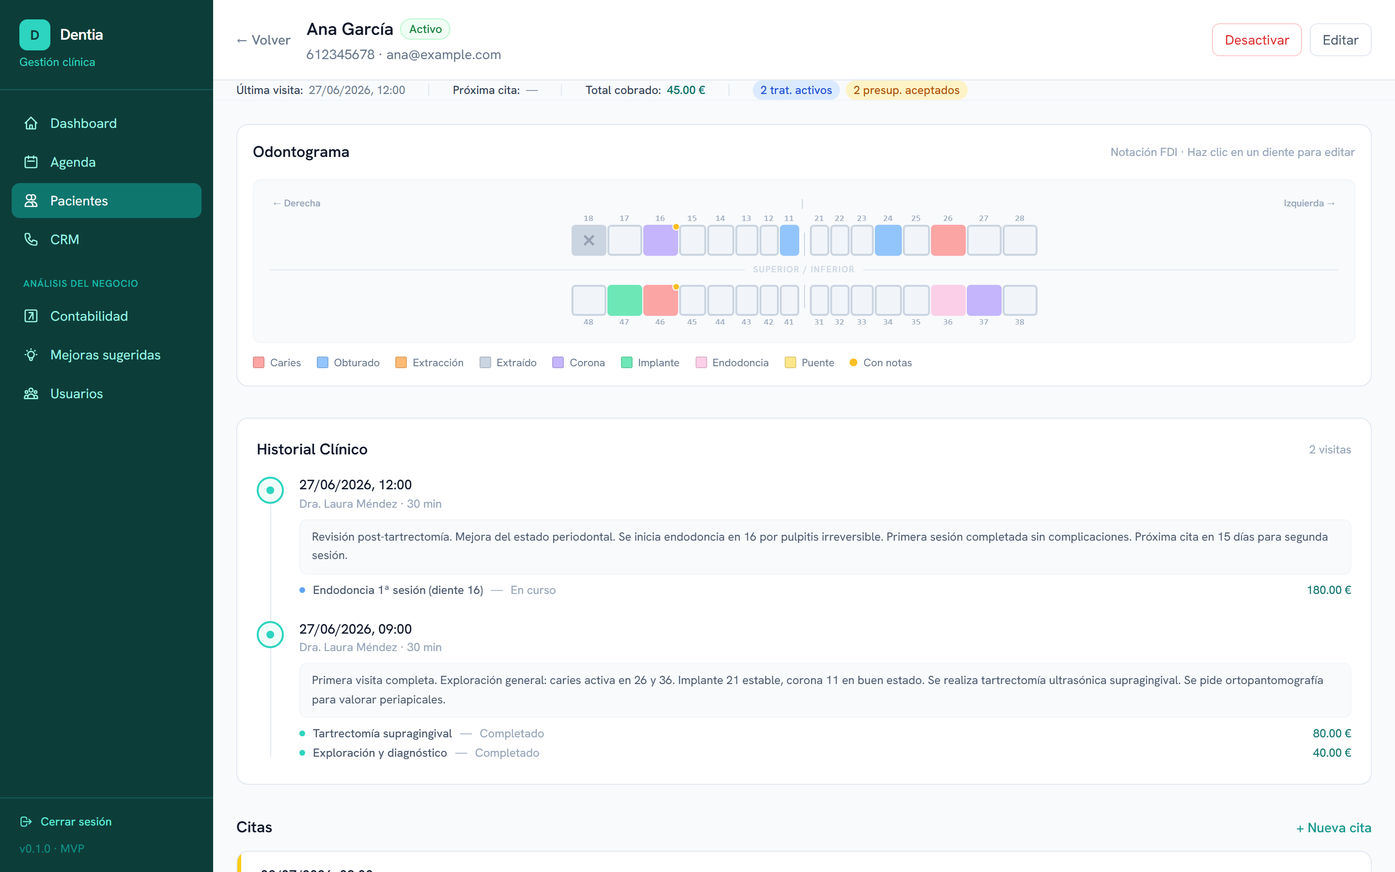
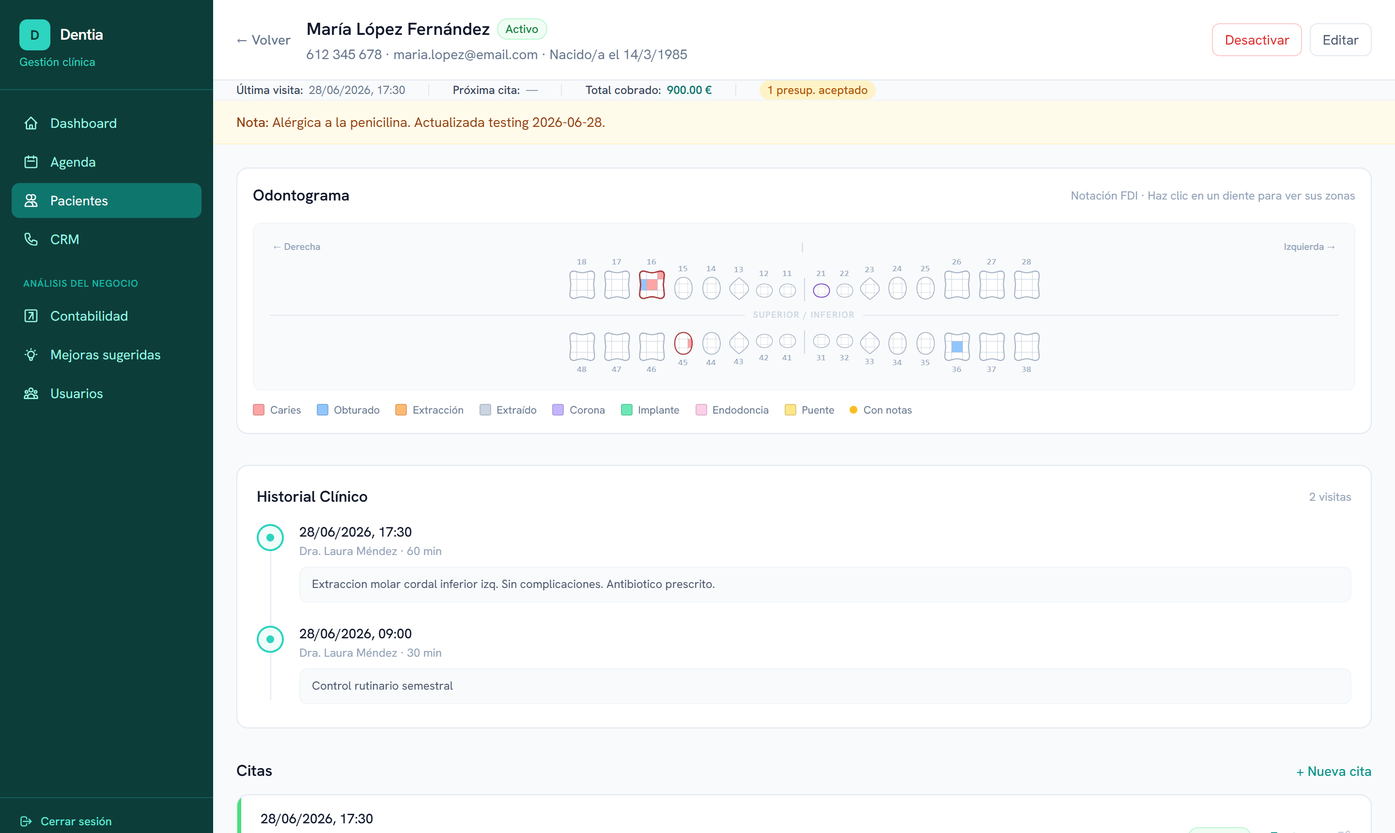
Dentia: precios reales sin promo, submenú de funciones y odontograma nuevo
- Fuera "sin cuota de alta" (hay puesta en marcha 249/299/399€) y fuera
  la promo de verano de 5 clínicas, en dentia.html y en la home. La
  garantía de devolución de 60 días se queda como bloque propio.
- Submenú sticky propio que recorre las 7 secciones del software
  (ficha, historial, reserva, asistente, CRM, tareas, negocio) con
  scrollspy y corrección de scroll con imágenes lazy.
- Reordenación: las secciones que enseñan el software van ahora
  seguidas, sin interrumpirlas; comparativa y convivencia pasan a
  después de funciones.
- Capturas nuevas del odontograma por zonas (arcada con dientes
  anatómicos + detalle de diente en 9 zonas) y copy actualizado.

diff --git a/dentia.html b/dentia.html
@@ -4,7 +4,7 @@
 <meta charset="UTF-8" />
 <meta name="viewport" content="width=device-width, initial-scale=1.0" />
 <title>Dentia — El software dental que además trabaja solo | Marirrodriga IA</title>
-<meta name="description" content="Software de gestión para clínicas dentales en la nube con un asistente de IA que atiende a tus pacientes por WhatsApp, cierra presupuestos y lleva la contabilidad sola. Desde 59€/mes, sin cuota de alta y sin permanencia." />
+<meta name="description" content="Software de gestión para clínicas dentales en la nube con un asistente de IA que atiende a tus pacientes por WhatsApp, cierra presupuestos y lleva la contabilidad sola. Desde 59€/mes, sin permanencia y con 60 días de garantía de devolución." />
 <meta property="og:title" content="Dentia — El software dental que además trabaja solo" />
 <meta property="og:description" content="Gestión clínica completa + un asistente de IA que atiende a tus pacientes. Desde 59€/mes, sin permanencia." />
 <meta property="og:type" content="website" />
@@ -160,6 +160,15 @@
   .final .btn{background:#fff;color:var(--teal)}
   .final .eyebrow{background:rgba(255,255,255,.16);color:#fff}
   footer{padding:40px 0;text-align:center;color:var(--ink-4);font-size:13.5px}footer a{color:var(--teal)}
+  /* Submenú de funciones (recorre las secciones del software) */
+  .fn-wrap{position:relative}
+  .fn-wrap section{scroll-margin-top:128px}
+  .subnav{position:sticky;top:62px;z-index:40;background:rgba(255,255,255,.92);backdrop-filter:blur(10px);border-bottom:1px solid var(--border)}
+  .subnav-in{display:flex;gap:8px;overflow-x:auto;scrollbar-width:none;padding:10px 24px;max-width:1080px;margin:0 auto}
+  .subnav-in::-webkit-scrollbar{display:none}
+  .subnav a{flex:0 0 auto;font-size:12.5px;font-weight:600;color:var(--ink-3);padding:6px 13px;border-radius:20px;border:1px solid var(--border-2);background:#fff;white-space:nowrap;transition:all .15s}
+  .subnav a:hover{color:var(--teal);border-color:var(--accent)}
+  .subnav a.active{background:var(--teal);border-color:var(--teal);color:#fff}
   @media(max-width:860px){
     .stats,.prob-grid,.grid2,.plans,.obj-grid{grid-template-columns:1fr}
     .final{padding:40px 24px}section{padding:52px 0}
@@ -190,11 +199,11 @@
     <a class="btn" href="https://wa.me/34675148566" target="_blank" rel="noopener">Quiero una demo gratis →</a>
     <a class="btn ghost" href="#precios">Ver precios</a>
   </div>
-  <div class="hero-trust"><span>✦ <b>Sin cuota de alta</b></span><span>✦ <b>Sin permanencia</b></span><span>✦ <b>Migración incluida</b></span><span>✦ <b>100% en la nube</b></span></div>
+  <div class="hero-trust"><span>✦ <b>Garantía de 60 días</b></span><span>✦ <b>Sin permanencia</b></span><span>✦ <b>Migración incluida</b></span><span>✦ <b>100% en la nube</b></span></div>
   <div class="stats">
     <div class="stat"><div class="n">24/7</div><div class="l">tus pacientes reservan y preguntan aunque la clínica esté cerrada</div></div>
     <div class="stat"><div class="n">0</div><div class="l">llamadas del mostrador para confirmar las citas de mañana: se confirman solas</div></div>
-    <div class="stat"><div class="n">0 €</div><div class="l">de instalación, sin ordenador dedicado y sin permanencia</div></div>
+    <div class="stat"><div class="n">60</div><div class="l">días de garantía: si no ves resultado, te devolvemos todo lo pagado</div></div>
     <div class="stat"><div class="n">1ª</div><div class="l">serás de las primeras clínicas de tu ciudad en atender con IA, sin hacer esperar a nadie</div></div>
   </div>
 </div></header>
@@ -259,72 +268,53 @@
   </div>
 </div></section>
 
-<section><div class="wrap">
-  <span class="eyebrow">Comparativa</span>
-  <h2>Todo lo de siempre, <em>más lo que otros no traen</em></h2>
-  <p class="lead">Dentia tiene todo lo que esperas de un software dental — y encima nuestros añadidos con IA.</p>
-  <div class="cmp"><table>
-    <thead><tr><th>Función</th><th class="us">Dentia</th><th>Software dental tradicional</th></tr></thead>
-    <tbody>
-      <tr><td>Agenda y gestión de citas</td><td class="us">Sí</td><td class="yes">Sí</td></tr>
-      <tr><td>Ficha e historia clínica</td><td class="us">Sí</td><td class="yes">Sí</td></tr>
-      <tr><td>Odontograma digital</td><td class="us">Sí</td><td class="yes">Sí</td></tr>
-      <tr><td>Presupuestos, pagos y facturación</td><td class="us">Sí</td><td class="yes">Sí</td></tr>
-      <tr><td>Radiografías, fotos clínicas y documentos del paciente</td><td class="us">Sí</td><td class="yes">Sí</td></tr>
-      <tr><td>Roles y permisos de equipo</td><td class="us">Sí</td><td class="yes">Sí</td></tr>
-      <tr><td>Firma digital de consentimientos</td><td class="us">Sí</td><td class="no">Solo algunos</td></tr>
-      <tr><td>100% en la nube, desde cualquier dispositivo</td><td class="us">Sí</td><td class="no">A menudo Windows</td></tr>
-      <tr><td>Reserva online sin huecos muertos</td><td class="us">Sí</td><td class="no">Franjas fijas de media hora</td></tr>
-      <tr><td>Asistente de IA por WhatsApp</td><td class="us">Sí</td><td class="no">No</td></tr>
-      <tr><td>Acompañamiento de presupuestos con IA</td><td class="us">Sí</td><td class="no">No</td></tr>
-      <tr><td>Seguimiento autónomo + aviso de intervención</td><td class="us">Sí</td><td class="no">No</td></tr>
-      <tr><td>CRM kanban de seguimiento de pacientes</td><td class="us">Sí</td><td class="no">No</td></tr>
-      <tr><td>Seguimiento de presupuestos con su valor en juego</td><td class="us">Sí</td><td class="no">Solo listados</td></tr>
-      <tr><td>Contabilidad autónoma analizada por IA</td><td class="us">Sí</td><td class="no">No</td></tr>
-      <tr><td>Análisis IA de conversaciones y mejoras sugeridas</td><td class="us">Sí</td><td class="no">No</td></tr>
-      <tr><td>Sin cuota de alta ni permanencia</td><td class="us">Sí</td><td class="no">Varía</td></tr>
-      <tr><td>Convive con tu sistema en la transición</td><td class="us">Sí</td><td class="no">Migración brusca</td></tr>
-    </tbody>
-  </table></div>
-</div></section>
-
-<section class="soft"><div class="wrap">
-  <span class="eyebrow">Convivencia y transición</span>
-  <h2>No hay que cambiarlo <em>todo de golpe</em></h2>
-  <p class="lead">Sabemos que cambiar de sistema da miedo — datos perdidos, equipo desorientado, días de caos. Dentia entra sin sobresaltos, conviviendo con lo que ya usas el tiempo que haga falta.</p>
-  <div class="grid2">
-    <div class="card"><h3>🗓 Con tu calendario actual</h3><p>Las citas pueden reflejarse en el calendario que usáis hoy durante la adaptación.</p></div>
-    <div class="card"><h3>🧾 Con tu facturación actual</h3><p>Sigues facturando como hasta ahora mientras adoptas Dentia a tu ritmo.</p></div>
-    <div class="card"><h3>✋ Lo manual y lo automático, juntos</h3><p>El equipo gestiona a mano lo que quiera; la IA trabaja en paralelo sobre los mismos datos.</p></div>
-    <div class="card"><h3>🚶 A tu ritmo</h3><p>Se empieza por lo que más alivia y se suman funciones según el equipo gana confianza.</p></div>
-  </div>
-</div></section>
-
 <!-- ═══════════ 2 · FUNCIONES ═══════════ -->
 <div class="sec-head" id="funciones"><div class="wrap">
   <div class="kicker">— funciones —</div>
   <h2>Todo lo que hace Dentia, <em>por dentro</em></h2>
 </div></div>
 
-<section><div class="wrap">
+<div class="fn-wrap">
+<nav class="subnav" aria-label="Secciones de Dentia"><div class="subnav-in">
+  <a href="#f-ficha">🦷 Ficha y odontograma</a>
+  <a href="#f-historial">📋 Historia clínica</a>
+  <a href="#f-reserva">📅 Reserva online</a>
+  <a href="#f-asistente">💬 Asistente IA</a>
+  <a href="#f-crm">🎯 Seguimiento y CRM</a>
+  <a href="#f-tareas">⚙ Tareas automáticas</a>
+  <a href="#f-negocio">📈 Números del negocio</a>
+</div></nav>
+
+<section id="f-ficha"><div class="wrap">
   <span class="eyebrow">El corazón del programa</span>
   <h2>La ficha del paciente: <em>todo en una pantalla</em></h2>
   <p class="lead">Odontograma, historia clínica, tratamientos, presupuestos, pagos y seguimientos, sin saltar entre ventanas.</p>
   <div class="fig"><img src="dentia-img/ficha-paciente.png" alt="Ficha del paciente con odontograma e historial" loading="lazy" /></div>
   <div class="grid2">
-    <div class="card"><h3>🦷 Odontograma visual</h3><p>Los 32 dientes con sus estados en color. Un clic para editar.</p></div>
+    <div class="card"><h3>🦷 Odontograma por zonas</h3><p>Cada diente se dibuja con su forma anatómica y se abre con un clic, dividido en 9 zonas —oclusal, mesial, distal, vestibular, lingual y sus ángulos— para registrar exactamente en qué parte del diente se interviene.</p></div>
     <div class="card"><h3>📋 Historia clínica automática</h3><p>Cada visita queda registrada con sus tratamientos. Se construye sola.</p></div>
+  </div>
+  <p class="lead" style="margin-top:26px">El odontograma no se queda en la vista general: cada diente se abre y se marca zona a zona, igual que trabaja el dentista.</p>
+  <div class="duo">
+    <div>
+      <p class="cap">La arcada completa, <b>de un vistazo</b></p>
+      <div class="fig"><img src="dentia-img/odontograma.png" alt="Odontograma con dientes anatómicos y zonas en color" loading="lazy" /></div>
+    </div>
+    <div>
+      <p class="cap">Cada diente, <b>zona a zona</b></p>
+      <div class="fig"><img src="dentia-img/odontograma-diente.png" alt="Detalle de un diente dividido en 9 zonas para marcar intervenciones" loading="lazy" /></div>
+    </div>
   </div>
 </div></section>
 
-<section class="soft"><div class="wrap">
+<section class="soft" id="f-historial"><div class="wrap">
   <span class="eyebrow">Agenda e historia clínica</span>
   <h2>Lo que se apunta en la cita <em>queda en el historial</em></h2>
   <p class="lead">El dentista apunta en las notas de la cita lo que detecta y hace, y esas notas pasan solas a la historia clínica. Y si con las prisas se olvida, Dentia avisa con un 📝 recordatorio en las citas ya pasadas sin notas.</p>
   <div class="fig"><img src="dentia-img/agenda-recordatorio.png" alt="Agenda con recordatorio de añadir notas" loading="lazy" /></div>
 </div></section>
 
-<section><div class="wrap">
+<section id="f-reserva"><div class="wrap">
   <span class="eyebrow">Reserva online</span>
   <h2>Dos formas de coger cita, <em>una misma agenda</em></h2>
   <p class="lead">El paciente elige: cierra la cita conversando con el asistente, o toca el enlace y escoge él mismo el hueco desde el móvil, con el tipo de cita ya seleccionado. Los dos caminos trabajan sobre la misma agenda en tiempo real — y como cada cita dura lo que tiene que durar, se encajan unas detrás de otras sin huecos muertos.</p>
@@ -349,7 +339,7 @@
   </div>
 </div></section>
 
-<section class="soft"><div class="wrap">
+<section class="soft" id="f-asistente"><div class="wrap">
   <span class="eyebrow">La inteligencia artificial</span>
   <h2>Un asistente que <em>atiende, acompaña y cierra</em></h2>
   <p class="lead">Conversa con tus pacientes por WhatsApp, conoce su historial y gestiona citas de verdad. 24 horas al día.</p>
@@ -374,7 +364,7 @@
   <div class="note"><strong>El asistente sabe exactamente lo que tú decidas contarle.</strong> ¿Quieres que informe de opciones de pago, como en el ejemplo? Se configura. ¿Prefieres que ciertos temas (urgencias, dudas clínicas) se deriven a una llamada? También. <strong>Y su tono y forma de hablar son totalmente personalizables:</strong> más cercano o más formal, con el estilo de tu clínica. Tú marcas qué responde, qué deriva y cómo lo dice.</div>
 </div></section>
 
-<section class="rose"><div class="wrap">
+<section class="rose" id="f-crm"><div class="wrap">
   <span class="eyebrow">Seguimiento autónomo</span>
   <h2>La IA persigue; <em>tú solo cierras</em></h2>
   <p class="lead">El seguimiento de citas y presupuestos lo hace el asistente por su cuenta. Y en el momento exacto en que hace falta una persona, transfiere el caso a la clínica con su contexto, a una columna propia del CRM: <strong>"Requiere intervención"</strong>.</p>
@@ -383,7 +373,7 @@
   <div class="fig"><img src="dentia-img/crm-presupuestos.png" alt="Seguimiento de presupuestos" loading="lazy" /></div>
 </div></section>
 
-<section class="soft"><div class="wrap">
+<section class="soft" id="f-tareas"><div class="wrap">
   <span class="eyebrow">Lo que hace solo</span>
   <h2>Las tareas que <em>ya no hace nadie</em></h2>
   <ul class="clean">
@@ -395,12 +385,56 @@
   </ul>
 </div></section>
 
-<section><div class="wrap">
+<section id="f-negocio"><div class="wrap">
   <span class="eyebrow">La clínica aprende</span>
   <h2>Información de negocio que <em>hoy nadie recoge</em></h2>
   <p class="lead">La IA analiza las conversaciones (de forma anónima) y cada semana te dice las dudas repetidas, las objeciones de precio, las quejas y las ideas de mejora. Y las cuentas, sin Excel.</p>
   <div class="fig"><img src="dentia-img/mejoras.png" alt="Mejoras sugeridas por IA" loading="lazy" /></div>
   <div class="fig"><img src="dentia-img/contabilidad.png" alt="Panel económico" loading="lazy" /></div>
+</div></section>
+</div><!-- /fn-wrap -->
+
+<!-- ═══════════ COMPARATIVA Y TRANSICIÓN ═══════════ -->
+<section class="soft"><div class="wrap">
+  <span class="eyebrow">Comparativa</span>
+  <h2>Todo lo de siempre, <em>más lo que otros no traen</em></h2>
+  <p class="lead">Dentia tiene todo lo que esperas de un software dental — y encima nuestros añadidos con IA.</p>
+  <div class="cmp"><table>
+    <thead><tr><th>Función</th><th class="us">Dentia</th><th>Software dental tradicional</th></tr></thead>
+    <tbody>
+      <tr><td>Agenda y gestión de citas</td><td class="us">Sí</td><td class="yes">Sí</td></tr>
+      <tr><td>Ficha e historia clínica</td><td class="us">Sí</td><td class="yes">Sí</td></tr>
+      <tr><td>Odontograma por zonas del diente</td><td class="us">Sí</td><td class="yes">Sí</td></tr>
+      <tr><td>Presupuestos, pagos y facturación</td><td class="us">Sí</td><td class="yes">Sí</td></tr>
+      <tr><td>Radiografías, fotos clínicas y documentos del paciente</td><td class="us">Sí</td><td class="yes">Sí</td></tr>
+      <tr><td>Roles y permisos de equipo</td><td class="us">Sí</td><td class="yes">Sí</td></tr>
+      <tr><td>Firma digital de consentimientos</td><td class="us">Sí</td><td class="no">Solo algunos</td></tr>
+      <tr><td>100% en la nube, desde cualquier dispositivo</td><td class="us">Sí</td><td class="no">A menudo Windows</td></tr>
+      <tr><td>Reserva online sin huecos muertos</td><td class="us">Sí</td><td class="no">Franjas fijas de media hora</td></tr>
+      <tr><td>Asistente de IA por WhatsApp</td><td class="us">Sí</td><td class="no">No</td></tr>
+      <tr><td>Acompañamiento de presupuestos con IA</td><td class="us">Sí</td><td class="no">No</td></tr>
+      <tr><td>Seguimiento autónomo + aviso de intervención</td><td class="us">Sí</td><td class="no">No</td></tr>
+      <tr><td>CRM kanban de seguimiento de pacientes</td><td class="us">Sí</td><td class="no">No</td></tr>
+      <tr><td>Seguimiento de presupuestos con su valor en juego</td><td class="us">Sí</td><td class="no">Solo listados</td></tr>
+      <tr><td>Contabilidad autónoma analizada por IA</td><td class="us">Sí</td><td class="no">No</td></tr>
+      <tr><td>Análisis IA de conversaciones y mejoras sugeridas</td><td class="us">Sí</td><td class="no">No</td></tr>
+      <tr><td>Sin permanencia: pagas mes a mes</td><td class="us">Sí</td><td class="no">Varía</td></tr>
+      <tr><td>Garantía de devolución de 60 días</td><td class="us">Sí</td><td class="no">No</td></tr>
+      <tr><td>Convive con tu sistema en la transición</td><td class="us">Sí</td><td class="no">Migración brusca</td></tr>
+    </tbody>
+  </table></div>
+</div></section>
+
+<section><div class="wrap">
+  <span class="eyebrow">Convivencia y transición</span>
+  <h2>No hay que cambiarlo <em>todo de golpe</em></h2>
+  <p class="lead">Sabemos que cambiar de sistema da miedo — datos perdidos, equipo desorientado, días de caos. Dentia entra sin sobresaltos, conviviendo con lo que ya usas el tiempo que haga falta.</p>
+  <div class="grid2">
+    <div class="card"><h3>🗓 Con tu calendario actual</h3><p>Las citas pueden reflejarse en el calendario que usáis hoy durante la adaptación.</p></div>
+    <div class="card"><h3>🧾 Con tu facturación actual</h3><p>Sigues facturando como hasta ahora mientras adoptas Dentia a tu ritmo.</p></div>
+    <div class="card"><h3>✋ Lo manual y lo automático, juntos</h3><p>El equipo gestiona a mano lo que quiera; la IA trabaja en paralelo sobre los mismos datos.</p></div>
+    <div class="card"><h3>🚶 A tu ritmo</h3><p>Se empieza por lo que más alivia y se suman funciones según el equipo gana confianza.</p></div>
+  </div>
 </div></section>
 
 <!-- ═══════════ 3 · OBJETIVOS ═══════════ -->
@@ -426,16 +460,15 @@
   <div class="center">
     <span class="eyebrow">Precios</span>
     <h2>Un precio <em>honesto</em> y sin sorpresas</h2>
-    <p class="lead">Sin cuota de alta ni permanencia, y con una puesta en marcha desde 249€ — si en 60 días no te convence, te devolvemos hasta el último euro, setup incluido.</p>
+    <p class="lead">Pagas mes a mes, sin permanencia, con una única puesta en marcha desde 249€ — y si en 60 días no te convence, te devolvemos hasta el último euro, puesta en marcha incluida.</p>
   </div>
 
-  <!-- Promo de verano -->
+  <!-- Garantía -->
   <div class="final" style="margin:40px auto 0;max-width:820px;padding:46px 40px;">
-    <span class="eyebrow">🌞 Promo de verano · solo 5 clínicas de Castilla y León</span>
+    <span class="eyebrow">Nuestra garantía</span>
     <h2>60 días con Dentia. Si no ves resultado,<br/><em>te devolvemos hasta el último euro</em>.</h2>
-    <p>Empiezas a usarlo pagando con normalidad, mes a mes. Lo montamos nosotros, formamos a tu equipo y lo mides con tus propios números. Si a los 60 días no ves la agenda más llena y menos trabajo en el mostrador, te devolvemos todo lo que hayas pagado —incluida la puesta en marcha— el riesgo lo ponemos nosotros. Y si sí, te quedas con el precio de la promo congelado para siempre.</p>
-    <a class="btn" href="https://wa.me/34675148566?text=Hola%2C%20quiero%20informaci%C3%B3n%20sobre%20la%20promo%20de%20verano%20de%20Dentia" target="_blank" rel="noopener">Quiero una de las 5 plazas →</a>
-    <p style="font-size:13px;color:rgba(255,255,255,.6);margin:14px auto 0;">Plazas limitadas de verdad: cuando se cubran las 5, esta oferta desaparece de la página.</p>
+    <p>Empiezas a usarlo pagando con normalidad, mes a mes. Lo montamos nosotros, formamos a tu equipo y lo mides con tus propios números. Si a los 60 días no ves la agenda más llena y menos trabajo en el mostrador, te devolvemos todo lo que hayas pagado —incluida la puesta en marcha—. El riesgo lo ponemos nosotros.</p>
+    <a class="btn" href="https://wa.me/34675148566?text=Hola%2C%20quiero%20probar%20Dentia%20con%20la%20garant%C3%ADa%20de%2060%20d%C3%ADas" target="_blank" rel="noopener">Quiero probar Dentia con garantía →</a>
   </div>
 
   <div class="plans">
@@ -482,7 +515,7 @@
   <div style="margin-top:36px">
     <details><summary>¿Tengo que instalar algo o cambiar de ordenador?</summary><p>No. Dentia funciona 100% en la nube: abres el navegador desde cualquier dispositivo y ya está.</p></details>
     <details><summary>¿Y mis datos actuales? ¿Pierdo el historial?</summary><p>No. La puesta en marcha incluye la migración de tus datos, y puedes exportarlos cuando quieras.</p></details>
-    <details><summary>¿Hay permanencia o cuota de alta?</summary><p>Ninguna de las dos. Pagas mes a mes y lo dejas cuando quieras — lo único que se paga una vez es la puesta en marcha (instalación, migración y formación incluidas), con el precio de cada plan aquí arriba, y también está cubierta por la garantía de devolución.</p></details>
+    <details><summary>¿Hay permanencia? ¿Qué se paga al empezar?</summary><p>Permanencia, ninguna: pagas mes a mes y lo dejas cuando quieras. Al empezar se paga una única puesta en marcha (instalación, migración de tus datos y formación del equipo incluidas), con el precio que ves en cada plan — y también está cubierta por la garantía de devolución de 60 días.</p></details>
     <details><summary>¿Cómo funciona exactamente la garantía de devolución?</summary><p>Desde que Dentia está funcionando en tu clínica, cuentan 60 días. Si al acabar no ves la agenda más llena y menos trabajo en el mostrador, nos lo dices por WhatsApp — sin justificar nada con números ni informes — y te devolvemos todo lo pagado en esos 60 días —incluida la puesta en marcha—, en un máximo de 7 días laborables. Solo pedimos que la hayáis tenido activa y en uso durante ese tiempo.</p></details>
     <details><summary>¿Puedo seguir usando mi calendario y mi facturación mientras me adapto?</summary><p>Sí. Dentia convive con tu sistema actual durante la transición; adoptas cada función a tu ritmo.</p></details>
     <details><summary>¿El asistente de IA sustituye a mi recepción?</summary><p>No: le quita el trabajo repetitivo (reservas y dudas fuera de horario, seguimiento de presupuestos) para que tu equipo dedique el tiempo a los pacientes que están en la clínica.</p></details>
@@ -503,6 +536,41 @@
   Dentia es un producto de <a href="/">Marirrodriga IA</a> · Automatización con IA para negocios que quieren crecer sin trabajar el doble.<br>
   <a href="https://wa.me/34675148566" target="_blank" rel="noopener">WhatsApp 675 148 566</a> · <a href="mailto:marirrodriga.ia@gmail.com">marirrodriga.ia@gmail.com</a>
 </div></footer>
+
+<script>
+(function(){
+  var links = Array.prototype.slice.call(document.querySelectorAll('.subnav a'));
+  if (!links.length) return;
+  var map = links.map(function(a){
+    return [document.querySelector(a.getAttribute('href')), a];
+  }).filter(function(p){ return p[0]; });
+  function spy(){
+    var current = null;
+    map.forEach(function(p){
+      if (p[0].getBoundingClientRect().top <= 150) current = p[1];
+    });
+    links.forEach(function(a){ a.classList.toggle('active', a === current); });
+  }
+  document.addEventListener('scroll', spy, {passive:true});
+  spy();
+  // Las imágenes lazy que cargan durante el desplazamiento mueven el objetivo:
+  // re-apuntamos al destino un par de veces hasta que el layout se estabiliza.
+  var t1, t2;
+  links.forEach(function(a){
+    a.addEventListener('click', function(ev){
+      var target = document.querySelector(a.getAttribute('href'));
+      if (!target) return;
+      ev.preventDefault();
+      history.replaceState(null, '', a.getAttribute('href'));
+      var go = function(){ target.scrollIntoView({behavior:'smooth', block:'start'}); };
+      go();
+      clearTimeout(t1); clearTimeout(t2);
+      t1 = setTimeout(go, 700);
+      t2 = setTimeout(go, 1500);
+    });
+  });
+})();
+</script>
 
 </body>
 </html>

diff --git a/index.html b/index.html
@@ -1358,11 +1358,11 @@
     </div>
   </nav>
 
-  <!-- ═══════════════════════════ PROMO VERANO DENTIA ═══════ -->
+  <!-- ═══════════════════════════ BANNER DENTIA ═════════════ -->
   <a href="/dentia" style="display:flex;align-items:center;justify-content:center;gap:10px;flex-wrap:wrap;padding:10px 20px;background:linear-gradient(90deg,#0d3d39,#0f766e);color:#fff;font-family:var(--font-body);font-size:13px;text-decoration:none;text-align:center;line-height:1.4;">
-    <span>🌞</span>
-    <span><b>Promo de verano: 5 clínicas dentales de Castilla y León</b> — 60 días con Dentia: si no funciona, te devolvemos lo pagado.</span>
-    <span style="font-weight:700;white-space:nowrap;color:#2dd4bf;">Ver la oferta →</span>
+    <span>🦷</span>
+    <span><b>Dentia, el software dental que trabaja solo</b> — 60 días de garantía: si no ves resultado, te devolvemos lo pagado.</span>
+    <span style="font-weight:700;white-space:nowrap;color:#2dd4bf;">Descúbrelo →</span>
   </a>
 
   <!-- ═══════════════════════════════════ HERO ══════════════ -->
@@ -1513,7 +1513,7 @@
           </div>
           <div class="citas-right">
             <div class="citas-price">49<span>€/mes</span></div>
-            <div class="citas-price-sub">🌞 Promo de verano: 60 días con garantía · si no funciona, te lo devolvemos</div>
+            <div class="citas-price-sub">60 días con garantía · si no funciona, te lo devolvemos</div>
             <button class="citas-cta" onclick="event.stopPropagation();openBookiaSectors()">Ver Bookia →</button>
           </div>
         </div>
@@ -1553,7 +1553,7 @@
           </div>
           <div class="citas-right">
             <div class="citas-price">59<span>€/mes</span></div>
-            <div class="citas-price-sub">🌞 Promo de verano: 60 días con garantía · si no funciona, te lo devolvemos</div>
+            <div class="citas-price-sub">60 días con garantía · si no funciona, te lo devolvemos</div>
             <button class="citas-cta" onclick="event.stopPropagation();location.href='/dentia'">Ver Dentia →</button>
           </div>
         </div>
